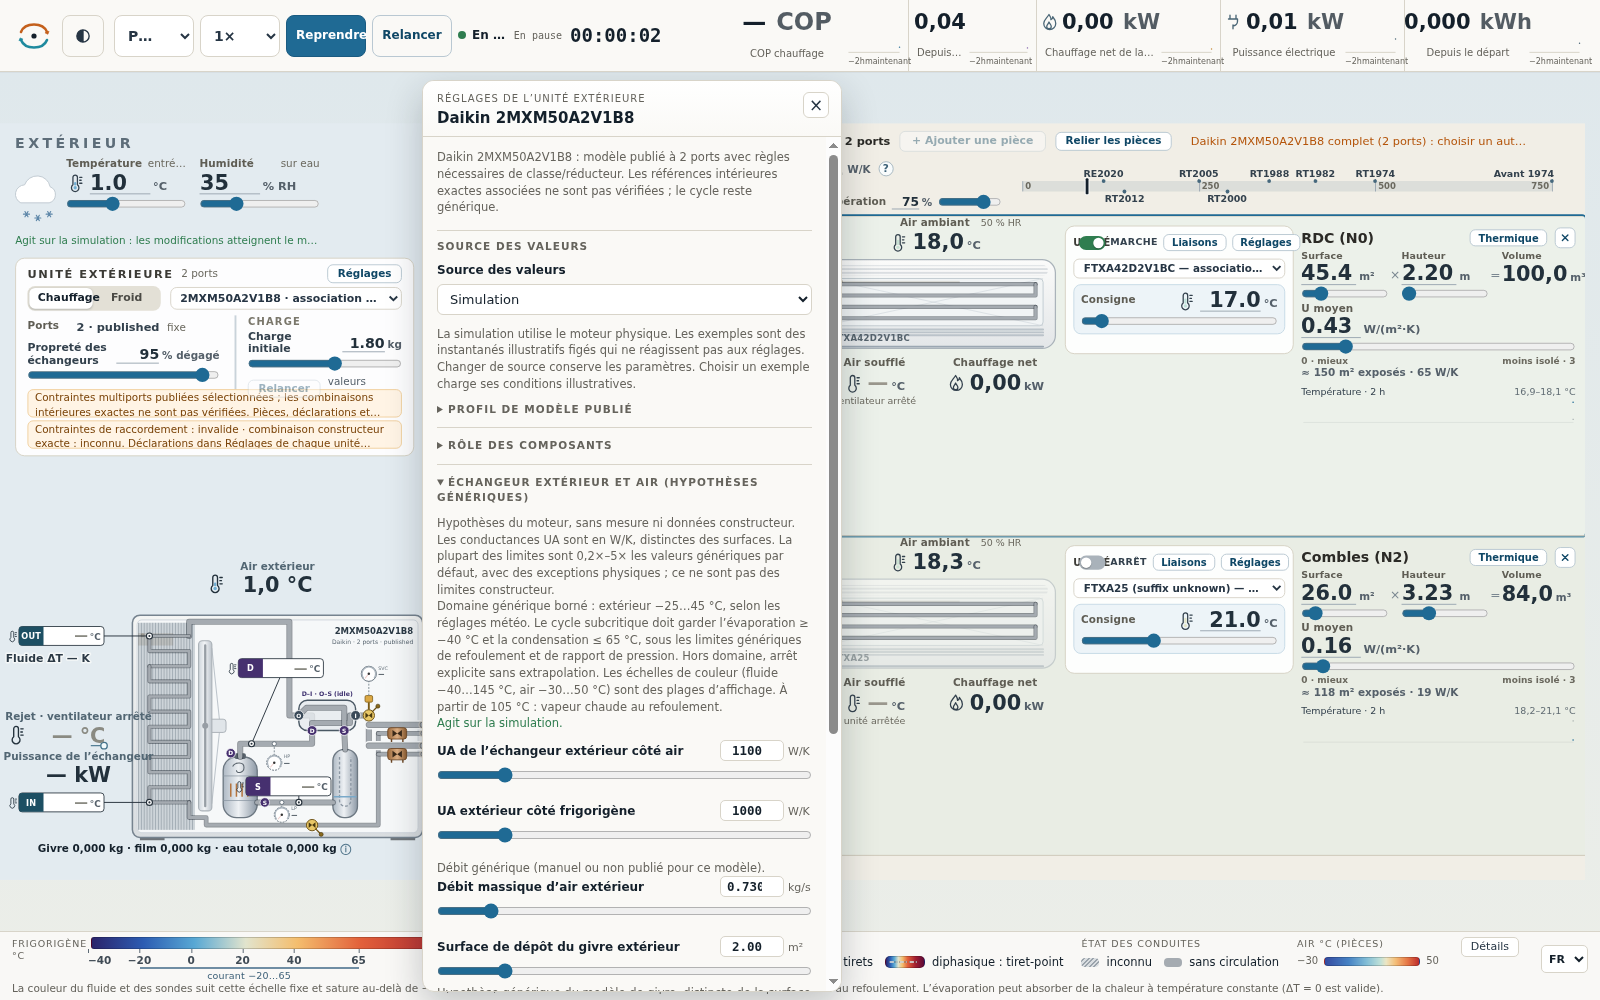
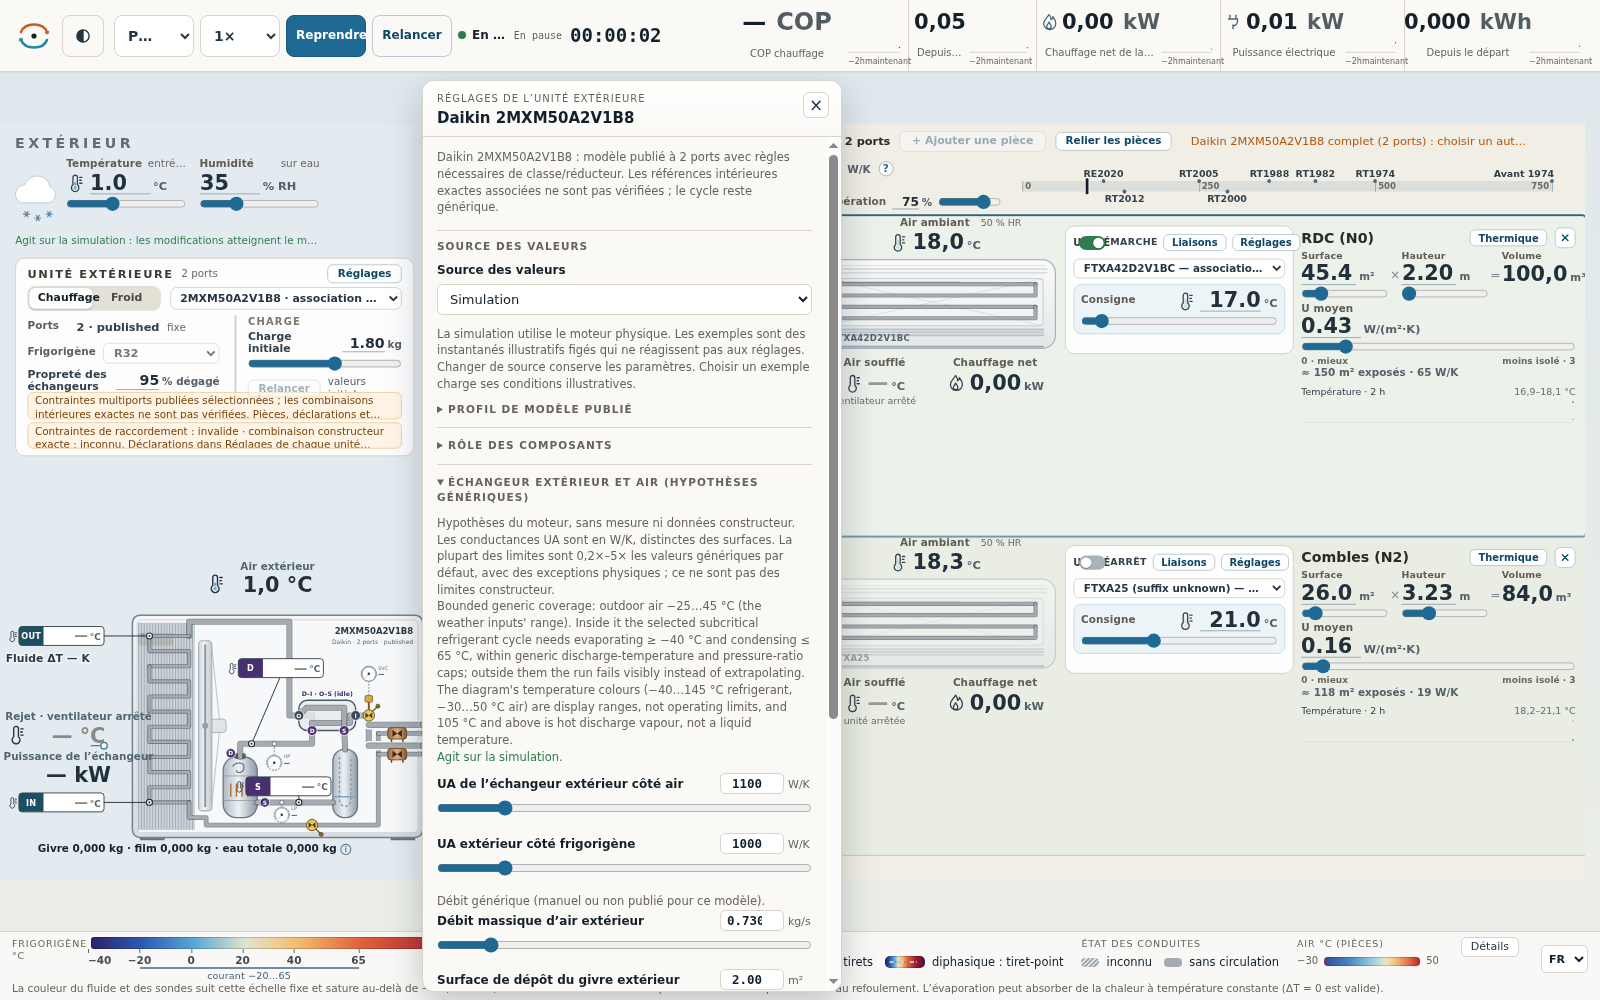
Verify multisplit integration against immutable root snapshots and maintain current scope

Changed region(s): [[0.25, 0.589, 0.5, 0.992], [0.0, 0.341, 0.25, 0.465]]

diff --git a/project-brief.md b/project-brief.md
@@ -4,11 +4,11 @@ Active new project, commissioned 2026-10-10. This document records owner decisio
 
 ## Current milestone
 
-Independent science research, the large vector workbench and the first generic live R32 engine are complete. The owner-requested clean zones, direct room setpoints, corner readings, pinned weather and cleanliness overrides are implemented. The guarded numerical suite passed 21/21 plus a separately added backend-failure case, complemented by independent scientific checks and actual-worker browser evidence. Live is the default; illustrative Examples remain separate. Physical field lines are a bounded advanced sensitivity option; idealized lines remain the default. Broader domain/empirical validation and a supported faster property backend remain follow-up work. Publication, branding and the owner-triggered Opus review have not started.
+Updated 2026-10-11. Independent science research, the vector workbench, live Reference engine, French presentation and room-temperature charts are implemented. GitHub Pages publication is authorized and live; `PROGRESS.md` records exact release receipts and the active backlog. Seven Reference refrigerants pass local qualification; physical lines remain R32-only. Charge response is the active conserved-inventory milestone and stays gated until its scientific and throughput checks pass. Manufacturer metadata is source-reviewed but does not establish OEM performance maps or complete indoor/outdoor eligibility. Branding is deferred, and Opus review remains owner-triggered.
 
 ## Product
 
-A heat-pump sandbox, neither a game nor a research instrument. Aim for the strongest physically consistent model practical in maintainable browser code, without FEA or GPU requirements. English first; French later. Static frontend compatible with GitHub Pages, with no backend or runtime API dependency.
+A heat-pump sandbox, neither a game nor a research instrument. Aim for the strongest physically consistent model practical in maintainable browser code, without FEA or GPU requirements. English is the default; French presentation is implemented. Static frontend compatible with GitHub Pages, with no backend or runtime API dependency.
 
 Desktop/laptop only; intended for screens of at least 16 inches. Following owner review, use clean, clearly labelled **outdoor / indoor / individual room zones**, with no detailed building, roof, furniture, windows or masonry artwork. Preserve properly connected refrigerant paths and physically proportioned equipment; tubing routing may be schematic and its drawn length need not equal physical length. Keep diagram geometry and physical parameters distinct. **All simulator/front illustrations must be pure vector**, as explicitly confirmed by Julien on 2026-10-10. Use native SVG and CSS for equipment, zones, tubing, valves, instruments, weather and frost. No raster textures/photos/generated bitmap artwork in the interface. Research-source images and QA screenshots are evidence, not interface assets.
 
@@ -19,13 +19,13 @@ Outdoor temperature and humidity must remain permanently available while navigat
 - Heating and cooling, with indoor-unit count limited by the selected outdoor unit’s port capacity; each indoor unit serves its own room.
 - Room size and heat-loss controls, temperature and setpoint, sensible/latent considerations in the scientific design.
 - Outdoor dry-bulb temperature and relative humidity. Frost accumulation and defrost are mandatory and must be visible.
-- Global exchanger cleanliness from 100% clean to 10% remaining clear passage, with outdoor and individual indoor overrides. Model air-side transfer and airflow effects, keep dirt visible on vector coil artwork and separate from frost. This is a generic blockage sensitivity, not a measured manufacturer fouling curve.
-- Readable corner values in room/outdoor zones: current simulated sensor values, requested room setpoint beside current temperature, supply/exhaust temperatures and useful output. Each room has a directly accessible setpoint slider in the diagram. Temperature-history charts are deferred.
-- Pause/reset and simulation speed including 1×, 2×, 5×, 10×; slower-than-real-time is desirable.
+- Shared exchanger cleanliness from 100% clean to 10% remaining clear passage, default 95% and permanently bound across all coils. Model air-side transfer and airflow effects, keep dirt visible on vector coil artwork and separate from frost. This is a generic blockage sensitivity, not a measured manufacturer fouling curve.
+- Readable corner values in room/outdoor zones: current simulated sensor values, requested room setpoint beside current temperature, supply/exhaust temperatures and useful output. Each room has a directly accessible setpoint slider in the diagram. Bounded two-hour room-temperature charts use accepted simulation time.
+- Pause/reset and requested simulation speed including 1×, 2×, 5×, 10× and 50×; show achieved rate beside status and elapsed HH:MM:SS. Slower-than-real-time remains desirable.
 - Selectable/configurable outdoor and indoor equipment, with consistent physical proportions and capacity labels. Do not annotate casing dimensions or draw rulers. Indoor sizes need not differ visibly merely because capacity differs.
 - Tubing diameter and physical length, with per-branch settings and service/manometer locations.
 - Visible reversing/control valves, compressor, heat exchangers, flow direction and refrigerant temperature/phase; the science research must establish the actual circuit rather than force an assumed three-way valve topology.
-- Heat-exchanger surface displayed in m² with a clear definition (primary, finned/air-side, etc.) and source/estimate provenance.
+- Visible heat-exchanger surface in m² was removed from scope; physical conductance assumptions remain explicit.
 - Instantaneous heat transfer and total electrical input in kW, correctly defined heating/cooling COP, pressures with an explicit gauge/absolute convention, outlet air temperatures at both sides.
 - Editable compressor efficiency, with its thermodynamic meaning established by the science specification.
 - Initial owner preset: Daikin 3MXM52N8 + FTXA25 + FTXA35 + FTXA25. Exact indoor suffixes and installation geometry remain unknown unless established by sources. Owner-provided source: https://blog.julienarnaud.fr/thermal-dimensioning-of-a-heat-pump.html . Fetch scripted requests using a Firefox-like user agent; if rejected, use the authenticated Playwright browser rather than declaring the site unavailable.
@@ -37,20 +37,20 @@ Owner floor defaults: Ground (Level 0) 45.4 m² / 100 m³; Upstairs (Level 1) 54
 
 ## Deferred
 
-Oil transport/return, saving/export/sharing, exhaustive current Daikin/Mitsubishi product catalogues, mixed domestic hot water, three-pipe heat recovery VRV/VRF, French, and branding. Optional outdoor audio is also deferred: audio off by default, explicitly enabled by the user, with synthesized compressor sound responding to compressor load and fan sound responding to fan speed. Document extension boundaries without building speculative subsystems. No mobile work.
+Oil transport/return, saving/export/sharing, mixed hydronic floor heating and domestic hot-water storage, three-pipe heat recovery VRV/VRF, and branding. Complete source-reviewed Daikin/Mitsubishi catalogue coverage remains active backlog, not an implemented full-range claim. Optional outdoor audio is also deferred: audio off by default, explicitly enabled by the user, with synthesized compressor sound responding to compressor load and fan sound responding to fan speed. Document extension boundaries without building speculative subsystems. No mobile work.
 
 ## Research and review
 
-GPT-6 Luna collects primary sources and equipment/refrigerant evidence. GPT-6.1 Sol develops the thermodynamics and root-level heatpump-science-reference.md, with an independently reviewed model specification. Sonnet 5.5 through the authenticated local Claude Code CLI owns visual/interface design. An independent science-compliance review checks the scientific documents and interface. No budgets imposed. Opus 5.5 review is owner-triggered only.
+GPT-6 Luna collects primary sources and equipment/refrigerant evidence. GPT-6.1 Sol develops the thermodynamics and root-level heatpump-science-reference.md, with an independently reviewed model specification. Sonnet 5.5 through authenticated Claude Code provided the initial interface design; subsequent interface work is now owned by Codex at the owner’s request. An independent science-compliance review checks the scientific documents and interface. No budgets imposed. Opus 5.5 review is owner-triggered only.
 
 Treat observed facts, historical evidence, model assumptions and unknowns separately. Do not invent manufacturer internal controls or calibration maps. Use citations directly adjacent to scientific/manufacturer claims. Numerical mockup readings are demonstration values and must be marked consistently; they are not validated physical outputs.
 
 ## Workspace boundaries
 
-All maintained project artifacts belong in this directory. Respect the parent AGENTS.md. Do not access directories named Intime. Do not change personal skills, global client configuration or memory stores. Do not create GitHub repositories, push, publish, or send messages during this milestone. Keep browser access read-only apart from opening the local preview. No external runtime assets or fonts are required.
+All maintained project artifacts belong in this directory. Respect the parent AGENTS.md. Do not access directories named Intime. Do not change personal skills, global client configuration or memory stores. The owner authorized creation of the GitHub repository, pushes of verified stable increments and GitHub Pages publication. Simulator browser interaction is authorized for verification. Sending messages to other people remains outside scope. No external runtime assets or fonts are required.
 
-The owner requested a local Git repository and regular commits on 2026-10-10. This project has its own local `main` repository; commit verified milestones and keep it separate from the parent agent workspace. No remote is configured.
+The owner requested a local Git repository and regular commits on 2026-10-10. This project has its own local `main` repository; commit verified milestones and keep it separate from the parent agent workspace. The authorized remote is `https://github.com/AnnoyingTechnology/heatpump-simulator.git`, and the published site is `https://annoyingtechnology.github.io/heatpump-simulator/`.
 
 ## Deferred mixed hydronic systems
 
-Owner clarification2026-10-11: future support should include rooms served by water-circulated floor heating and domestic hot-water tanks in mixed systems. Document this scope only; do not implement it during the current air-air pass. A later design must represent the water loop, circulation, emitters, controls and tank thermal storage, rather than treating them as air-air indoor heads.
+Owner clarification 2026-10-11: future support should include rooms served by water-circulated floor heating and domestic hot-water tanks in mixed systems. Document this scope only; do not implement it during the current air-air pass. A later design must represent the water loop, circulation, emitters, controls and tank thermal storage, rather than treating them as air-air indoor heads.

diff --git a/PROGRESS.md b/PROGRESS.md
@@ -9,7 +9,7 @@ Audited 2026-10-11 against the deployed source, release receipts and current res
 ### Open work from the requested simulator scope
 
 - **Charge response:** the public Reference engine does not respond to Initial charge. The conserved inventory engine remains gated until sustained owner three-head operation, natural charged frosting/defrost/thaw/drainage, fresh cooling, timestep checks and usable browser throughput pass. The slider is present; the feature is not released.
-- **Complete equipment catalogue:** accepted runtime coverage is41Daikin outdoor/119indoor and25Mitsubishi outdoor/45indoor profiles. The next nine MXM candidates passed corrected source review but require exact multi-port/head-count/class/reducer and combination compatibility before import. Owner-generation Daikin multisplits, including the 2MXM40 family and its peers, are now explicitly requested alongside the current range; exact historical suffixes/specifications need Luna source review. Remaining Perfera/Sensira/Siesta/Nepura/cassette/ducted references and Mitsubishi completeness accounting remain open. Existing profile geometry/airflow/pairings do not establish OEM compressor or exchanger performance maps.
+- **Complete equipment catalogue:** accepted runtime coverage is 50 Daikin outdoor / 119 indoor and 25 Mitsubishi outdoor / 45 indoor profiles. Nine current MXM A8/A9 models now have source-reviewed casing, head limits and typed port/class/reducer constraints; 27 source tests, 6 topology tests and 44 actual root-snapshot browser checks pass. Exact OEM full-SKU compatibility and compressor/exchanger performance remain unknown. Owner-generation 2MXM/3MXM/4MXM/5MXM N/N8/N9 research is complete and under independent import review; unpublished legacy connection and operating bounds remain unknown. Remaining consumer-family coverage is documented in `reviews/mxm-remaining-catalogue-gaps.md` and remains open.
 - **Additional refrigerants:** seven Reference fluids (R32, R22, R290, R134a, R1234yf and documented pseudo-pure R410A/R407C) are now qualified locally. The seven-fluid integration passes 156/156 native regression, 7 frontend checks and 5 actual-selection browser groups. R407C retains native bubble/dew glide; interior mass quality and phase compositions are unresolved, with separately documented full-mixture comparison rather than a claim of resolved fractionation. Physical lines/inventory stay R32-only. Six-fluid publication is verified; the seven-fluid successor awaits its own deployment gate.
 - **Compressor startup fidelity:** the integrated idealized Reference inverter now ramps actual refrigerant throughput from rest at2rps/s, with15 permanent startup gates and9 retained inverter gates. Fixed/defrost commands and physical-line minimum starts remain separate. Rotor inertia and motor electrical transients remain outside the quasi-steady approximation. Physical cooling retains18rps because unequal-branch8rps operation is not qualified.
 - **Owner measurement comparison:** initial read-only comparison is complete without fitting: all15 export checksums,8 aggregate/counter comparisons,84 native refrigerant points and24 ventilation sensitivity cases pass. Historical settings/outdoor RH and delivered heat remain unknown, so electricity overlap does not validate installed COP or identify solar gains. See `research/owner-reference-comparison.md`; future controlled-input/holdout validation remains open.
